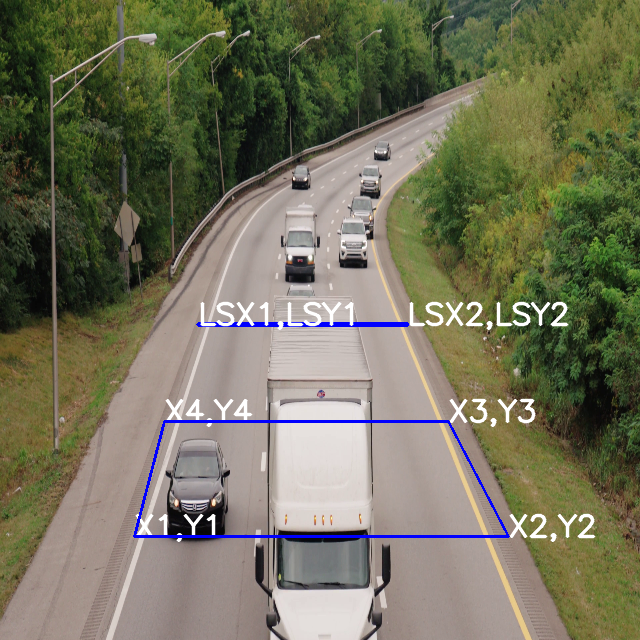
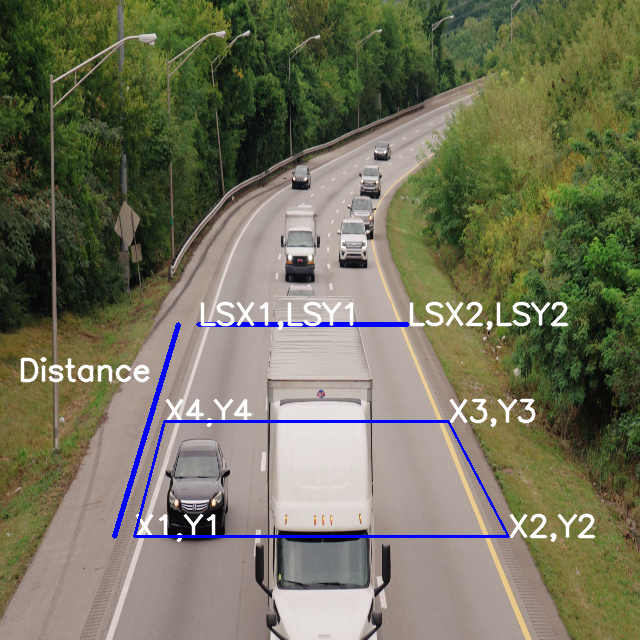
GUI changes as discussed

Changed region(s): [[0.0312, 0.5, 0.2812, 0.8125], [0.1562, 0.8125, 0.1875, 0.8438]]

diff --git a/flask_app/templates/arm1.html b/flask_app/templates/arm1.html
@@ -172,8 +172,8 @@
 
               <tr>
                 <td colspan="3">
-                  <h8 class="fontOpenSansBold" style="text-align:center; font-size: 15px">Distance between Line Segment
-                    (LSX1Y1,LSX2Y2) and (X3Y3,X4Y4) in Metres</h8>
+                  <h8 class="fontOpenSansBold" style="text-align:center; font-size: 15px">Distance between Line Segments
+                    (LSX1Y1,LSX2Y2) and (X1Y1,X2Y2) in metres</h8>
                 </td>
               </tr>
               <tr>

diff --git a/flask_app/image_read.py b/flask_app/image_read.py
@@ -20,10 +20,14 @@ frame = cv2.imread(path)
 frame = cv2.resize(frame,(640,640))
 start_point = (198,324)
 end_point = (407,324)
+vstart = (178,324)
+vend = (114,536)
 frame = cv2.line(frame, start_point, end_point, color1, thickness_l)
 frame = cv2.putText(frame, 'LSX1,' + "LSY1", start_point, font,fontScale_l, color, thickness, cv2.LINE_AA)
 frame = cv2.putText(frame, 'LSX2,' + "LSY2", end_point, font,fontScale_l, color, thickness, cv2.LINE_AA)
 
+frame = cv2.line(frame, vstart, vend, color1, thickness_l)
+frame = cv2.putText(frame, "Distance", (18,380), font,fontScale_l, color, thickness, cv2.LINE_AA)
 
 dim_list = [[134,536],[508,536],[448,421], [164,421]]
 j = 1
@@ -33,7 +37,8 @@ for cord in dim_list:
 pts = np.array(dim_list,
                np.int32)
 frame = cv2.polylines(frame, [pts] ,True, (255,0,0), 2)
-cv2.imwrite(path,frame)
+frame = cv2.line(frame, vstart, vend, color1, thickness_l)
+#cv2.imwrite(path,frame)
 while(1):
     cv2.imshow('image', frame)
     if cv2.waitKey(20) & 0xFF == 27:
